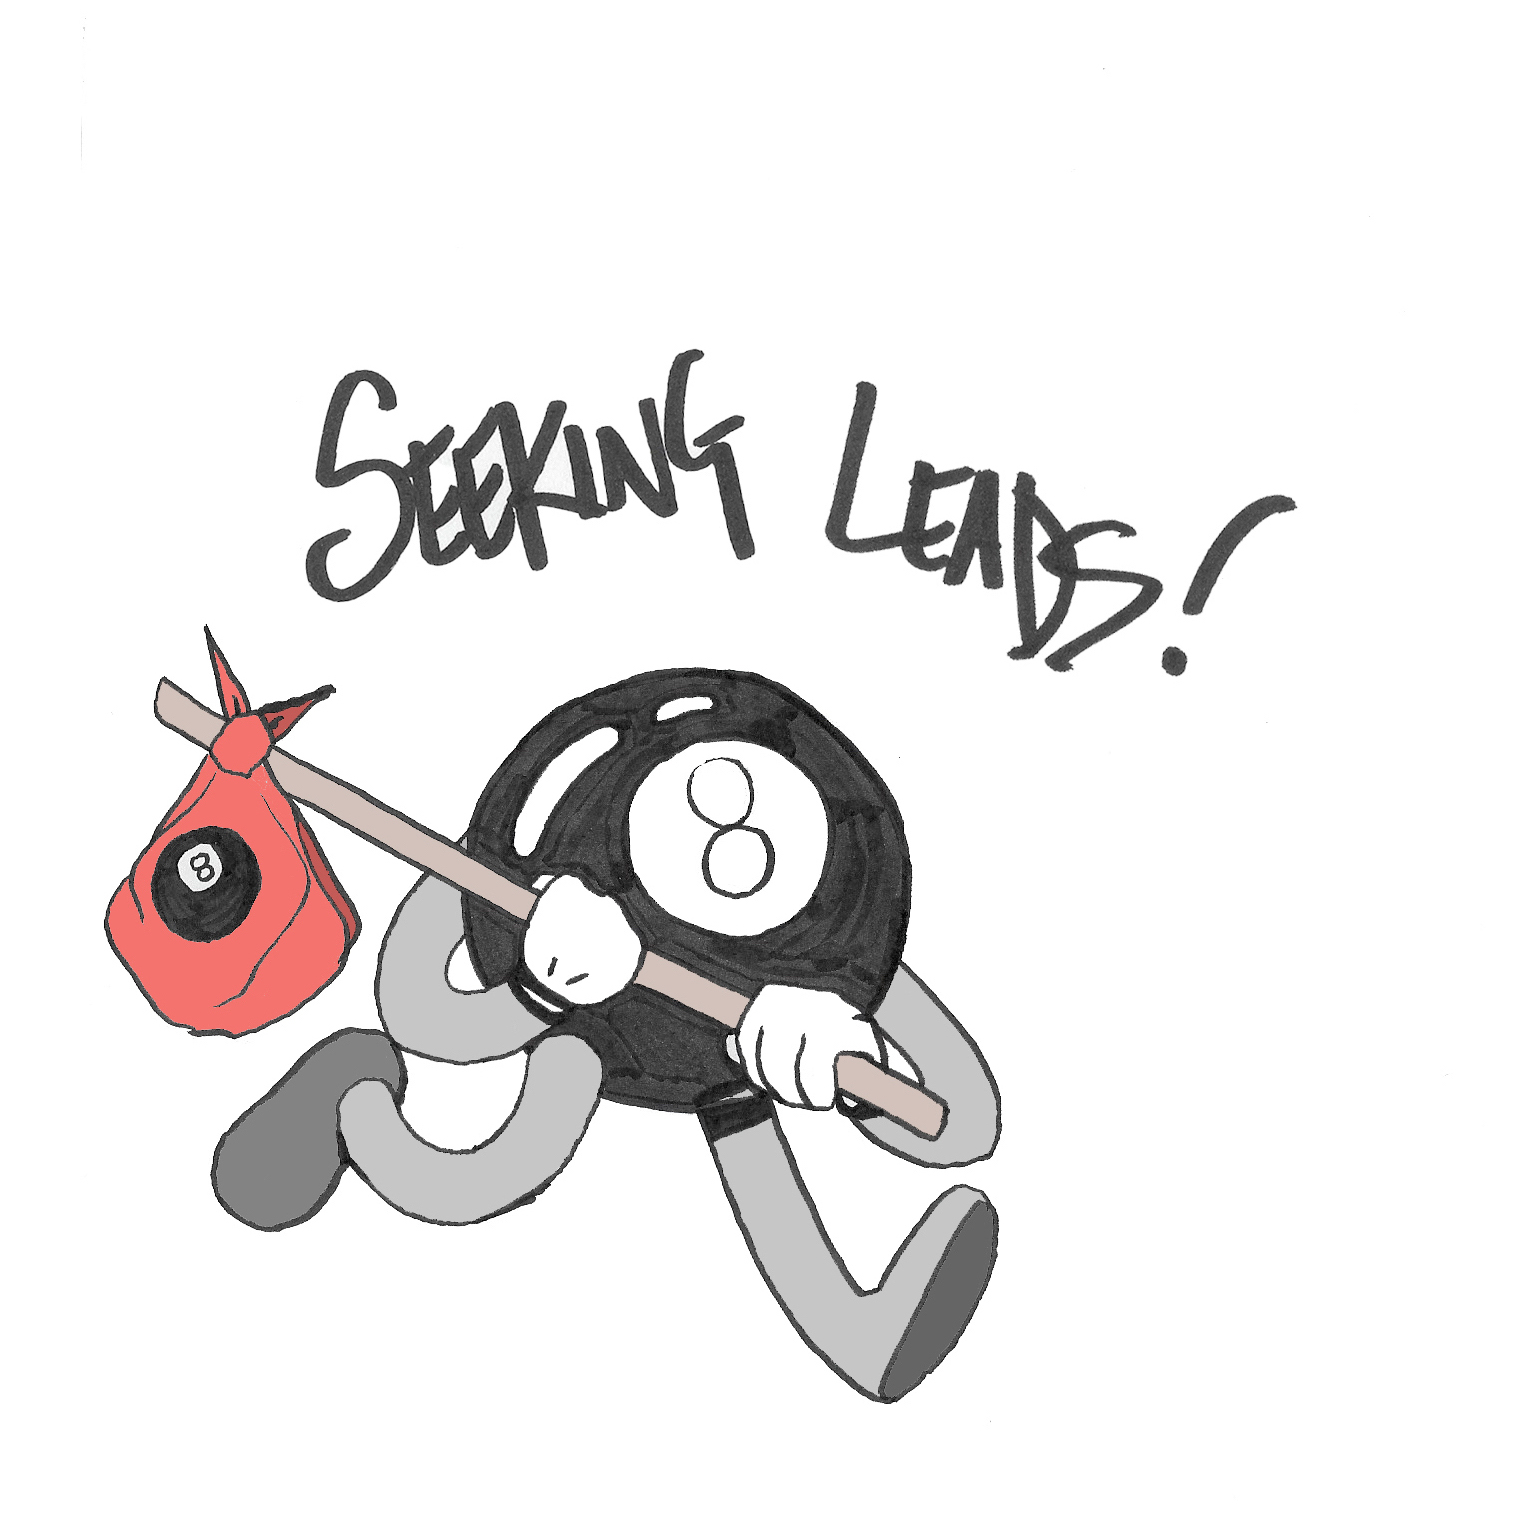
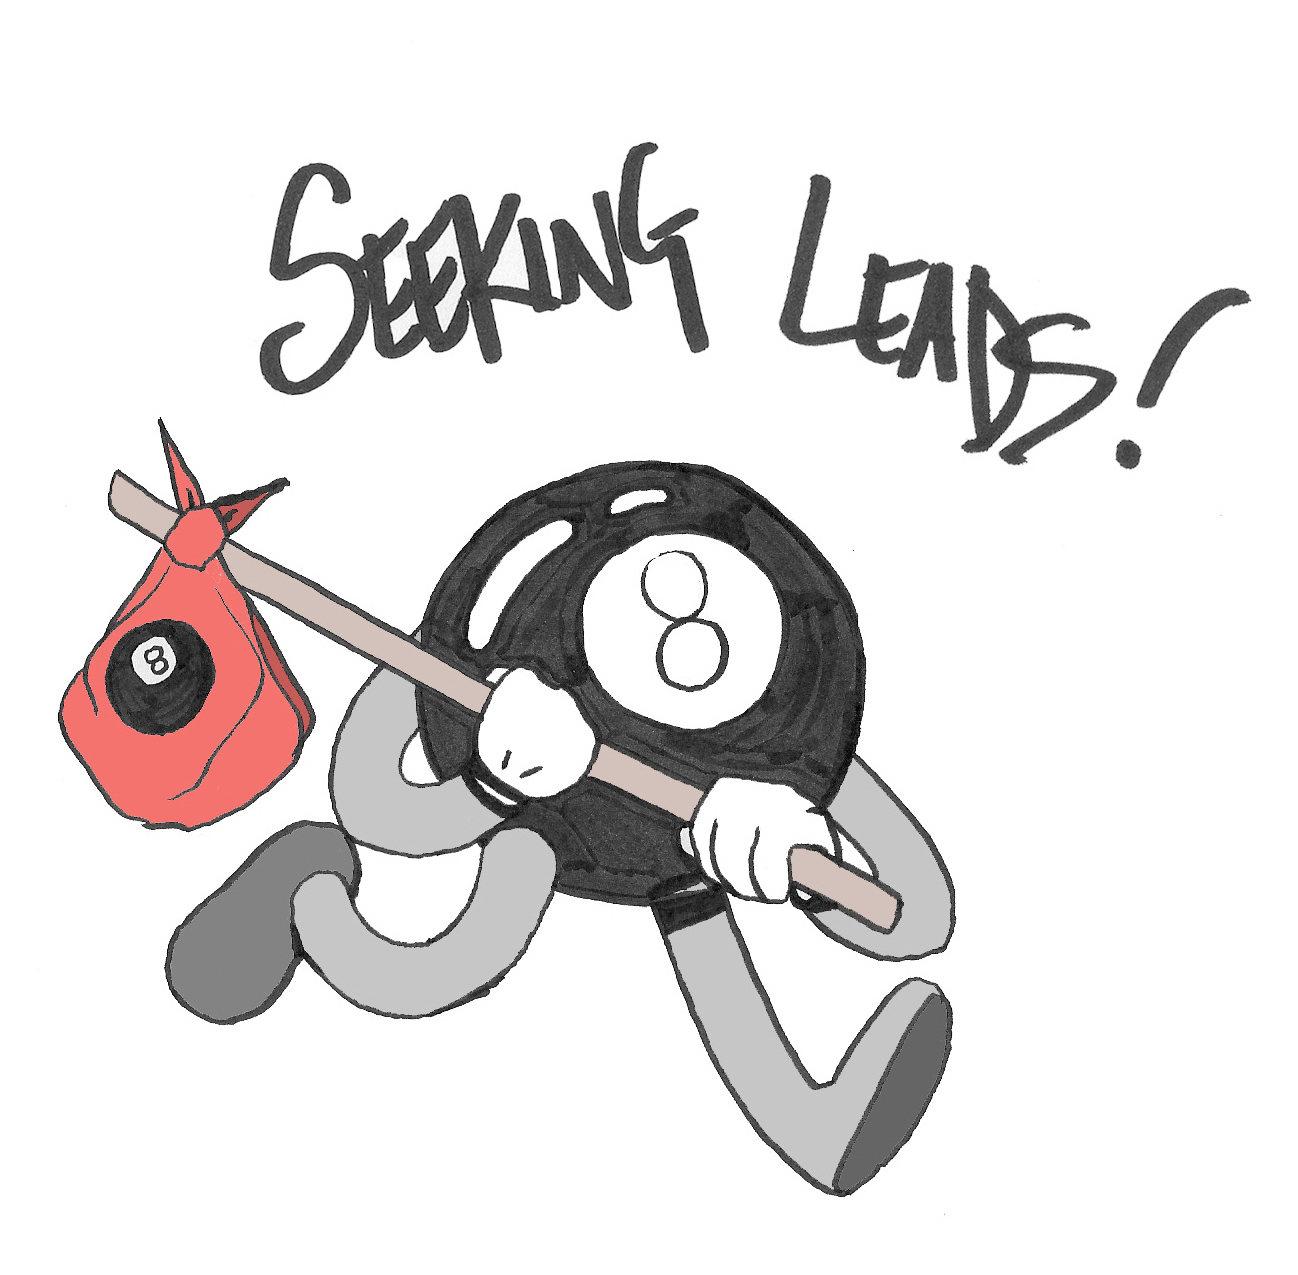
8ball flier upload
added seeking leads flier

Changed region(s): [[0.0308, 0.1224, 0.9553, 0.9482], [0.4931, 0.0918, 0.5239, 0.1224]]

diff --git a/index.html b/index.html
@@ -660,6 +660,8 @@ lightbox.addEventListener('click', e => {
   <img src="/img/fliers/8balltv-gear.png" class="lightbox2-thumb" alt="thumbnail 2" width="150">
   <img src="/img/fliers/8ball_armsangel2.png" class="lightbox2-thumb" alt="thumbnail 3" width="100">
   <img src="/img/fliers/aftershock-flier.jpg" class="lightbox2-thumb" alt="thumbnail 3" width="200">
+  <img src="/img/fliers/8ball_leads.jpg" class="lightbox2-thumb" alt="thumbnail 3" width="150">
+
 </div>
 
 <script>
